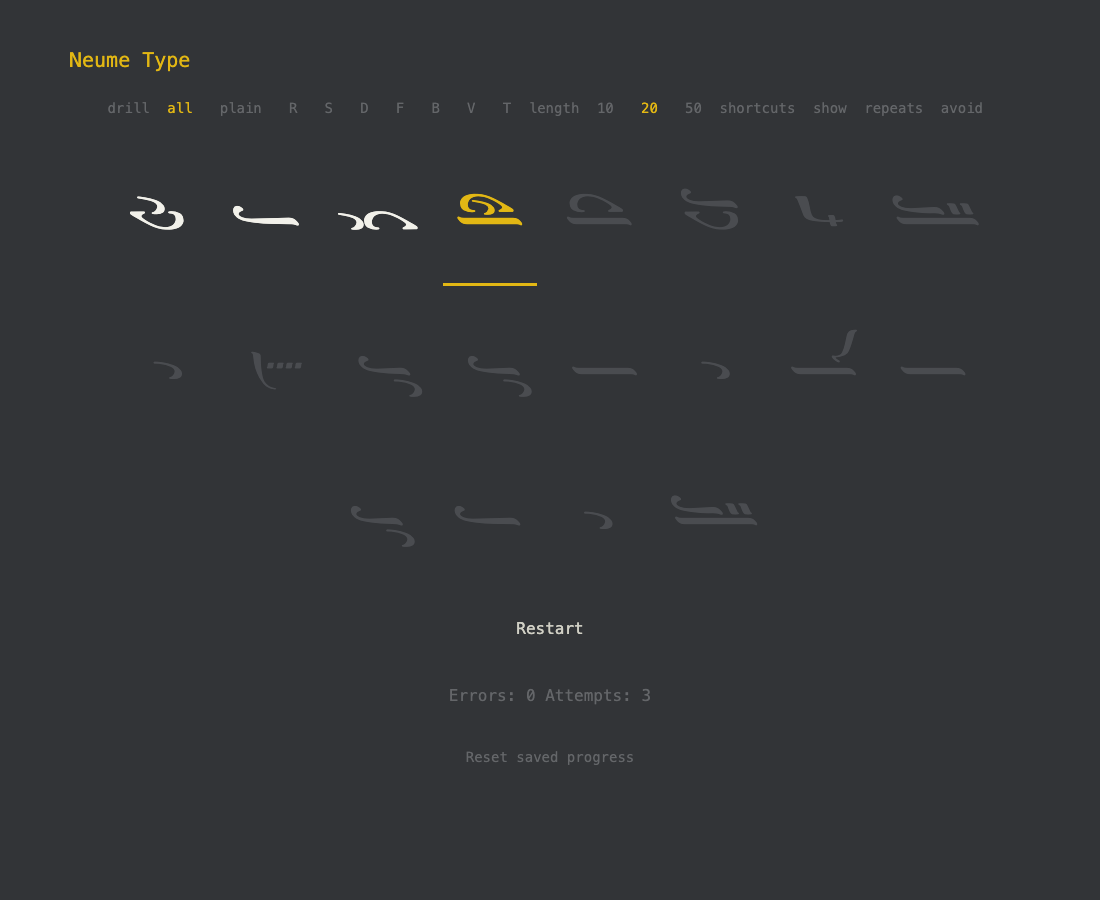
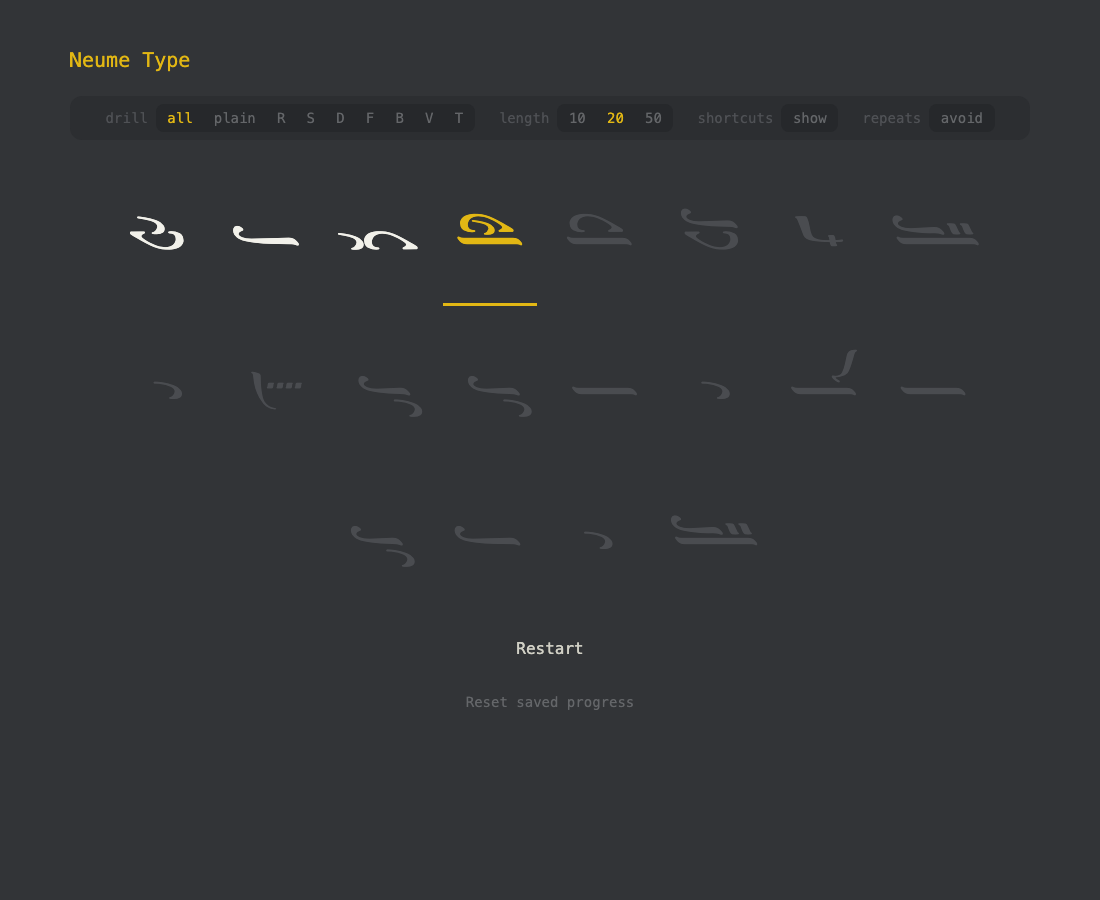
feat(ui): show weakest neumes only in the results, quieter and readable
Move the all-time weakest panel into the Results view and drop the yellow
card. Rename the errors column to miss rate, state the scope (all time,
3+ attempts), lift text contrast above 4.5:1, hide the glyphs from screen
readers and label the section by its heading. SPEC section 3c and
criterion 17 updated; owner decision 2026-11-21.

diff --git a/e2e/progress.spec.ts b/e2e/progress.spec.ts
@@ -36,7 +36,21 @@ test('the weakest panel survives a reload', async ({ page }) => {
   await playRun(page);
   await expect(page.getByTestId('weakest').locator(`tr[data-neume-id="${first.id}"]`)).toBeVisible();
   await page.reload();
+  // Saved history never shows during a test or on a fresh start, only in the results.
+  await expect(page.getByTestId('weakest')).toHaveCount(0);
+  await playRun(page);
   await expect(page.getByTestId('weakest').locator(`tr[data-neume-id="${first.id}"]`)).toBeVisible();
+});
+
+test('the weakest panel shows only inside the results, never during a test', async ({ page }) => {
+  await page.goto('/?seed=1');
+  for (let i = 0; i < 3; i++) await page.keyboard.press('KeyH');
+  await playRun(page);
+  await expect(page.getByTestId('done').getByTestId('weakest')).toBeVisible();
+  await page.getByTestId('restart').click();
+  await expect(page.getByTestId('weakest')).toHaveCount(0);
+  await typeChord(page, await currentTarget(page)); // mid-test with saved history
+  await expect(page.getByTestId('weakest')).toHaveCount(0);
 });
 
 test('corrupt storage does not break the page', async ({ page }) => {
@@ -89,36 +103,79 @@ test('settings survive a reset and a reload', async ({ page }) => {
   await expect(page.getByTestId('drill-KeyR')).toHaveAttribute('aria-pressed', 'true');
 });
 
-test('the weakest panel is a yellow-outlined card holding a table with no ruled lines', async ({ page }) => {
+test('the weakest panel is a quiet table with no outline, no card and no ruled lines', async ({ page }) => {
   await page.goto('/?seed=1');
   for (let i = 0; i < 3; i++) await page.keyboard.press('KeyH');
   await playRun(page);
-  const card = page.getByTestId('weakest');
-  const outline = await card.evaluate((el) => {
+  const panel = page.getByTestId('weakest');
+  const box = await panel.evaluate((el) => {
     const cs = getComputedStyle(el);
-    return [cs.borderTopColor, cs.borderTopWidth];
+    return { width: parseFloat(cs.borderTopWidth), style: cs.borderTopStyle, bg: cs.backgroundColor, radius: parseFloat(cs.borderTopLeftRadius) };
   });
-  expect(outline[0]).toBe('rgb(226, 183, 20)'); // --accent
-  expect(parseFloat(outline[1])).toBeGreaterThanOrEqual(1);
-  // A real table with column headers, so each value sits under its title.
-  const headers = card.locator('table thead th');
-  expect(await headers.count()).toBeGreaterThanOrEqual(3);
-  await expect(card.locator('tbody tr').first().locator('td').first()).toBeVisible();
+  expect(box.width === 0 || box.style === 'none').toBe(true);
+  expect(box.bg).toBe('rgba(0, 0, 0, 0)');
+  expect(box.radius).toBe(0);
+  // A real table with the column titles from the owner's brief.
+  await expect(panel.locator('thead th')).toHaveText(['neume', 'name', 'shortcut', 'miss rate']);
+  await expect(panel.locator('tbody tr').first().locator('td').first()).toBeVisible();
+  // The ranking scope is stated.
+  await expect(panel).toContainText('all time · 3+ attempts');
   // No hard lines: no cell or row has a visible border.
-  const ruled = await card.locator('th, td, tr, table').evaluateAll((els) =>
+  const ruled = await panel.locator('th, td, tr, table').evaluateAll((els) =>
     els.filter((el) => ['top', 'right', 'bottom', 'left'].some((side) => parseFloat(getComputedStyle(el).getPropertyValue(`border-${side}-width`)) > 0 && getComputedStyle(el).getPropertyValue(`border-${side}-style`) !== 'none')).length,
   );
   expect(ruled).toBe(0);
+  // Rows are not interactive, so they do not change on hover.
+  const row = panel.locator('tbody tr').first();
+  const before = await row.locator('td').nth(1).evaluate((el) => getComputedStyle(el).backgroundColor);
+  await row.hover();
+  expect(await row.locator('td').nth(1).evaluate((el) => getComputedStyle(el).backgroundColor)).toBe(before);
 });
 
-test('the weakest card is left-aligned and as wide as the settings bar', async ({ page }) => {
+test('the weakest panel text has at least 4.5:1 contrast', async ({ page }) => {
   await page.goto('/?seed=1');
   for (let i = 0; i < 3; i++) await page.keyboard.press('KeyH');
   await playRun(page);
-  const card = (await page.getByTestId('weakest').boundingBox())!;
-  const bar = (await page.locator('.settings').boundingBox())!;
-  expect(Math.abs(card.x - bar.x)).toBeLessThan(2);
-  expect(Math.abs(card.width - bar.width)).toBeLessThan(2);
-  const align = await page.getByTestId('weakest').locator('tbody td').nth(1).evaluate((el) => getComputedStyle(el).textAlign);
-  expect(['left', 'start']).toContain(align);
+  const ratios = await page.getByTestId('weakest').evaluate((panel) => {
+    const lum = (rgb: string) => {
+      const [r, g, b] = rgb.match(/[\d.]+/g)!.slice(0, 3).map((v) => {
+        const c = Number(v) / 255;
+        return c <= 0.03928 ? c / 12.92 : ((c + 0.055) / 1.055) ** 2.4;
+      });
+      return 0.2126 * r + 0.7152 * g + 0.0722 * b;
+    };
+    const bg = lum(getComputedStyle(document.body).backgroundColor);
+    const cells = [
+      ...panel.querySelectorAll('h3, p, th, td:not(:first-child)'),
+    ] as HTMLElement[];
+    return cells.map((el) => {
+      const l = lum(getComputedStyle(el).color);
+      return { text: el.textContent, ratio: (Math.max(l, bg) + 0.05) / (Math.min(l, bg) + 0.05) };
+    });
+  });
+  expect(ratios.length).toBeGreaterThan(5);
+  for (const r of ratios) expect(r.ratio, r.text ?? '').toBeGreaterThanOrEqual(4.5);
+});
+
+test('the weakest panel is labelled by its heading and hides the glyphs from screen readers', async ({ page }) => {
+  await page.goto('/?seed=1');
+  for (let i = 0; i < 3; i++) await page.keyboard.press('KeyH');
+  await playRun(page);
+  const panel = page.getByTestId('weakest');
+  const labelledby = await panel.getAttribute('aria-labelledby');
+  expect(labelledby).toBeTruthy();
+  await expect(page.locator(`#${labelledby}`)).toHaveText('Weakest neumes');
+  await expect(panel.locator('tbody .neume').first()).toHaveAttribute('aria-hidden', 'true');
+});
+
+test('on a phone the weakest rows stay readable without overflow', async ({ page }) => {
+  await page.setViewportSize({ width: 390, height: 800 });
+  await page.goto('/?seed=1');
+  for (let i = 0; i < 3; i++) await page.keyboard.press('KeyH');
+  await playRun(page);
+  const panel = page.getByTestId('weakest');
+  const overflow = await page.evaluate(() => document.documentElement.scrollWidth - document.documentElement.clientWidth);
+  expect(overflow).toBeLessThanOrEqual(0);
+  const rowHeight = (await panel.locator('tbody tr').first().boundingBox())!.height;
+  expect(rowHeight).toBeLessThan(80); // at most two lines of text
 });

diff --git a/src/ui/App.tsx b/src/ui/App.tsx
@@ -93,6 +93,7 @@ export function App({ store, progress, debug = false }: { store: GameStore; prog
           tallies={state.tallies}
           bestRate={best ? best.neumesPerMinute.toFixed(1) : null}
           newBest={saved.lastRun?.newBest === true && saved.lastRun.key === key}
+          weak={weakNeumes}
         />
       ) : (
         <div className="neume-row" data-testid="row">
@@ -133,36 +134,6 @@ export function App({ store, progress, debug = false }: { store: GameStore; prog
         Errors: <span data-testid="errors">{state.errors}</span> Attempts:{' '}
         <span data-testid="attempts">{state.attempts}</span>
       </p>
-      {weakNeumes.length > 0 && (
-        <section className="weakest" data-testid="weakest">
-          <h2>Weakest neumes</h2>
-          <table>
-            <thead>
-              <tr>
-                <th scope="col">neume</th>
-                <th scope="col">name</th>
-                <th scope="col">shortcut</th>
-                <th scope="col">errors</th>
-              </tr>
-            </thead>
-            <tbody>
-              {weakNeumes.map((w) => {
-                const entry = keymap.find((e) => e.id === w.id)!;
-                return (
-                  <tr key={w.id} data-neume-id={w.id}>
-                    <td>
-                      <span className="neume">{glyph(entry.codePoints)}</span>
-                    </td>
-                    <td>{entry.name}</td>
-                    <td className="shortcut">{shortcutText(entry)}</td>
-                    <td className="rate">{Math.round(w.rate * 100)}%</td>
-                  </tr>
-                );
-              })}
-            </tbody>
-          </table>
-        </section>
-      )}
       <button
         type="button"
         className="reset-progress"
@@ -204,11 +175,13 @@ function ResultsView({
   tallies,
   bestRate,
   newBest,
+  weak,
 }: {
   results: FormattedResults;
   tallies: Tallies;
   bestRate: string | null;
   newBest: boolean;
+  weak: ReturnType<typeof weakest>;
 }) {
   const worst = hardest(tallies, 3);
   return (
@@ -244,6 +217,39 @@ function ResultsView({
             );
           })}
         </ol>
+      )}
+      {weak.length > 0 && (
+        <section className="weakest" data-testid="weakest" aria-labelledby="weakest-title">
+          <h3 id="weakest-title">Weakest neumes</h3>
+          <p className="weakest-scope">all time · 3+ attempts</p>
+          <table>
+            <thead>
+              <tr>
+                <th scope="col">neume</th>
+                <th scope="col">name</th>
+                <th scope="col">shortcut</th>
+                <th scope="col">miss rate</th>
+              </tr>
+            </thead>
+            <tbody>
+              {weak.map((w) => {
+                const entry = keymap.find((e) => e.id === w.id)!;
+                return (
+                  <tr key={w.id} data-neume-id={w.id}>
+                    <td>
+                      <span className="neume" aria-hidden="true">
+                        {glyph(entry.codePoints)}
+                      </span>
+                    </td>
+                    <td>{entry.name}</td>
+                    <td className="shortcut">{shortcutText(entry)}</td>
+                    <td className="rate">{Math.round(w.rate * 100)}%</td>
+                  </tr>
+                );
+              })}
+            </tbody>
+          </table>
+        </section>
       )}
     </section>
   );

diff --git a/src/ui/look.css b/src/ui/look.css
@@ -9,6 +9,8 @@
   --neume-todo: #4a4c50;
   --neume-done: #f2f1ea;
   --error: #ca4754;
+  --text-soft: #a0a2a6; /* 4.8:1 on --bg, for small secondary text */
+  --error-text: #ee7f8a; /* 4.8:1 on --bg, for error text */
 }
 
 body {
@@ -182,64 +184,57 @@ h2 {
 }
 
 .weakest {
-  align-self: stretch;
-  box-sizing: border-box;
-  padding: 1.25rem 1.5rem 1rem;
-  text-align: left;
-  background: var(--bar-bg);
-  border: 2px solid var(--accent);
-  border-radius: 0.75rem;
+  margin-top: 1.5rem;
 }
-.weakest h2 {
-  margin: 0 0 0.75rem;
-  color: var(--text-button);
+.results .weakest h3 {
+  margin: 0;
+  color: var(--text-soft);
+}
+.results .weakest .weakest-scope {
+  margin: 0.125rem 0 0.75rem;
+  font-size: 0.875rem;
+  color: var(--text-soft);
 }
 .weakest table {
-  width: 100%;
-  border-collapse: separate;
-  border-spacing: 0;
+  margin: 0 auto;
+  border-collapse: collapse;
   font-variant-numeric: tabular-nums;
 }
 .weakest th {
-  padding: 0 0.75rem 0.5rem;
+  padding: 0 1.5rem 0.25rem 0;
+  white-space: nowrap;
   font-size: 0.75rem;
   font-weight: 400;
   text-align: left;
-  color: var(--text-label);
+  color: var(--text-soft);
 }
 .weakest td {
-  padding: 0.25rem 0.75rem;
+  padding: 0.125rem 1.5rem 0.125rem 0;
   color: var(--text-button);
+  text-align: left;
   vertical-align: middle;
 }
 .weakest td:first-child,
 .weakest th:first-child {
-  width: 3.5rem;
-}
-.weakest td:first-child {
-  border-radius: 0.5rem 0 0 0.5rem;
-}
-.weakest td:last-child {
-  border-radius: 0 0.5rem 0.5rem 0;
-}
-.weakest tbody tr:hover td {
-  background: var(--chip-bg);
+  width: 3rem;
 }
 .weakest .shortcut {
-  color: var(--text-muted);
+  color: var(--text-soft);
+  white-space: nowrap;
 }
-.weakest .rate,
+.weakest td.rate,
 .weakest th:last-child {
+  padding-right: 0;
   text-align: right;
 }
 .weakest .rate {
-  color: var(--error);
+  color: var(--error-text);
 }
 .weakest .neume {
   font-size: 1.75rem;
   line-height: 1.5;
   min-width: 0;
-  padding: 0 0.15em;
+  padding: 0 0.15em 0 0;
   border-bottom: 0;
   color: var(--accent);
 }
@@ -264,17 +259,17 @@ h2 {
 }
 
 @media (max-width: 30rem) {
-  .weakest {
-    padding: 1rem 0.75rem 0.75rem;
-  }
   .weakest th,
   .weakest td {
-    padding-left: 0.375rem;
-    padding-right: 0.375rem;
+    padding-right: 0.75rem;
+  }
+  .weakest td:last-child,
+  .weakest th:last-child {
+    padding-right: 0;
   }
   .weakest td:first-child,
   .weakest th:first-child {
-    width: 2.5rem;
+    width: 2.25rem;
   }
   .weakest .neume {
     font-size: 1.5rem;

diff --git a/SPEC.md b/SPEC.md
@@ -56,7 +56,7 @@ Stored only in the browser (`localStorage`), never sent anywhere. One key, `neum
 
 - **Versioning:** optional added fields do not bump `version`; a breaking change bumps it and adds a migration. A stored version newer than the code is not understood: the game uses empty progress in memory and never writes, so newer data is not overwritten. Invalid JSON or a wrong shape: the raw text is copied once to `neume-type.progress.corrupt`, and the game starts empty and writable. Unknown neume or drill ids are kept, not deleted.
 - **Personal best:** the highest neumes per minute for a drill and length; a tie goes to higher accuracy. A run with show shortcuts on, or with no rate, never sets a best, but its per-neume tallies still add to the all-time totals.
-- **Weakest neumes:** all-time, ranked by error rate (errors / attempts), needing at least 3 attempts and at least one error, then errors desc, then id; top 5. Shown under the test when not empty.
+- **Weakest neumes:** all-time, ranked by error rate (errors / attempts), needing at least 3 attempts and at least one error, then errors desc, then id; top 5. Shown only in the results, below the best line, and only when not empty: never during a test or on a fresh start. The panel is borderless and quiet, its columns are neume, name, shortcut and miss rate (errors / attempts), and a muted line states "all time · 3+ attempts". Decided with the owner on 2026-11-21.
 - **Results** show the best for the current drill and length, and "New best" when the run set it. A "Reset saved progress" button asks for confirmation, then clears the key.
 - Missing or throwing storage (private mode, quota) never breaks the game: progress then lives in memory only. Settings (drill, show shortcuts, length, avoid repeats) are saved and restored on load; an unknown stored drill falls back to `all`, an absent or invalid stored length to 20, and an absent or invalid stored avoid-repeats value to off. Saving settings merges into the stored ones.
 
@@ -165,7 +165,7 @@ Copy the layout and feel of default Monkeytype by eye, with no Monkeytype code o
 14. A seeded large sample draws each entry at about its chance, includes the rarest entry, and `random()` of 0 and just below 1 give the first and last pool entries.
 15. Drill pools: `all` is every verified entry; `plain` has 28 entries and no letter modifier; R, S, D, F and B have 13, 5, 4, 7 and 4 entries; every drill pool is non-empty; an unknown drill throws. With the R drill every target of a full run uses R.
 16. The hardest list ignores neumes with no errors, sorts by errors, then attempts, then id, and caps at 3. In a real browser a wrong key on a neume lists it with "1 error", and a clean run shows "No errors".
-17. Saved progress: parsing null, invalid JSON, a wrong shape and a future version gives empty progress, and a future version is never overwritten; a throwing or missing storage does not throw; the best follows the rules in section 3c (per drill and length, ties by accuracy, never from practice runs or a null rate); the weakest list needs 3 attempts. In a real browser the best, the weakest panel and the settings survive a reload, corrupt storage does not break the page, and reset clears the panel.
+17. Saved progress: parsing null, invalid JSON, a wrong shape and a future version gives empty progress, and a future version is never overwritten; a throwing or missing storage does not throw; the best follows the rules in section 3c (per drill and length, ties by accuracy, never from practice runs or a null rate); the weakest list needs 3 attempts. In a real browser the best, the weakest panel (inside the results only) and the settings survive a reload, corrupt storage does not break the page, and reset clears the panel. The panel text meets 4.5:1 contrast.
 18. Appendix B: every row matches the keymap; no entry is `unverified` (row 82 was verified by the owner on 2026-11-19); the default `all` drill is exactly the 61 quantity entries (so its chances and seeded draws are unchanged); the V drill has the 11 quality entries and the T drill all 18 fthoras, including row 82, which can be drawn; in a real browser each V and T target is typed with its own shortcut and all 90 code point sequences render from the Neanes font. Human check, pending: the owner compares the 29 new glyphs with the guide's Symbol column.
 19. Avoid repeats: off gives exactly the previous draw for a fixed seed; on never puts the same id twice in a row over many seeds and all drills, draws each later position at c_j / (1 - c_prev), uses one `random()` per target, and persists across reload together with the drill and length.
 

diff --git a/PROGRESS.md b/PROGRESS.md
@@ -33,6 +33,7 @@
 - T28 (owner decision 2026-11-19): row 82 (T + M, U+E19B) is verified. The owner reads the glyph as the guide's "Soft Chromatic Ga fthora" (it can be read on Ga or Ke; SBMuFL names it Ke): the name stays the guide's, the id stays `fthoraSoftChromaticKeAbove`, and SPEC Appendix B notes the naming difference. The keymap now has no unverified entry; the T drill has all 18 fthoras and can draw row 82. Tests changed by this owner-approved spec (not weakened): the keymap test that pinned only row 82 unverified now pins no unverified entries and the verified row 82; the drills test that pinned 17 now pins 18 including row 82 and that it can be drawn; the quality e2e now also requires T + M among the typed T shortcuts. The generic unverified-filter tests use fixtures and are untouched. SPEC criterion 18 updated. No dependencies added.
 
 - UI tidy (2026-11-21, owner request): the four settings (drill, length, shortcuts, repeats) are now groups in one bar (`.settings`, `.setting-group`): a dim title (`.setting-label`, `--text-label`) beside its options in a darker chip (`.setting-options`, `--chip-bg`), so a title is visibly not a control. The Errors/Attempts line stays in the DOM (tests read it) but is hidden unless `?debug`. Groups wrap on a phone. `e2e/look.spec.ts` has three new tests that failed first. No new dependencies. Weakest-neumes panel and Reset button are untouched; owner may want those hidden too. `docs/screenshots/` not regenerated.
+- Weakest neumes quieter and results-only (2026-11-21, owner decision after a design critique): the panel moved from under the test into the Results view (after the run's hardest list) and shows only when not empty. It is no longer a yellow-outlined card: no border, background or radius, and no row hover (rows are not clickable). Header `errors` became `miss rate`, a muted line states `all time · 3+ attempts`, glyphs are `aria-hidden`, and the section is `aria-labelledby` its heading. Contrast: new tokens `--text-soft` (#a0a2a6) and `--error-text` (#ee7f8a), both about 4.8:1 on `--bg`; the old text was 1.7 to 2.9:1. On a phone the shortcut and header stay on one line and the name wraps. SPEC section 3c and criterion 17 updated. Tests changed by this owner decision, not weakened: the yellow-outline and card-width tests are replaced by a quiet-table test, and the tests that read the panel before a run now finish a run first; new tests cover results-only, 4.5:1 contrast, aria and the phone layout (written first, 5 failed). Not changed: `Results` and `Hardest this run` text is still `--text-muted` (about 2.7:1), the same low contrast as before, and the Reset button. Screenshots regenerated. No dependencies added.
 
 ## Next
 - G7 decided 2026-11-18: stay on React.
